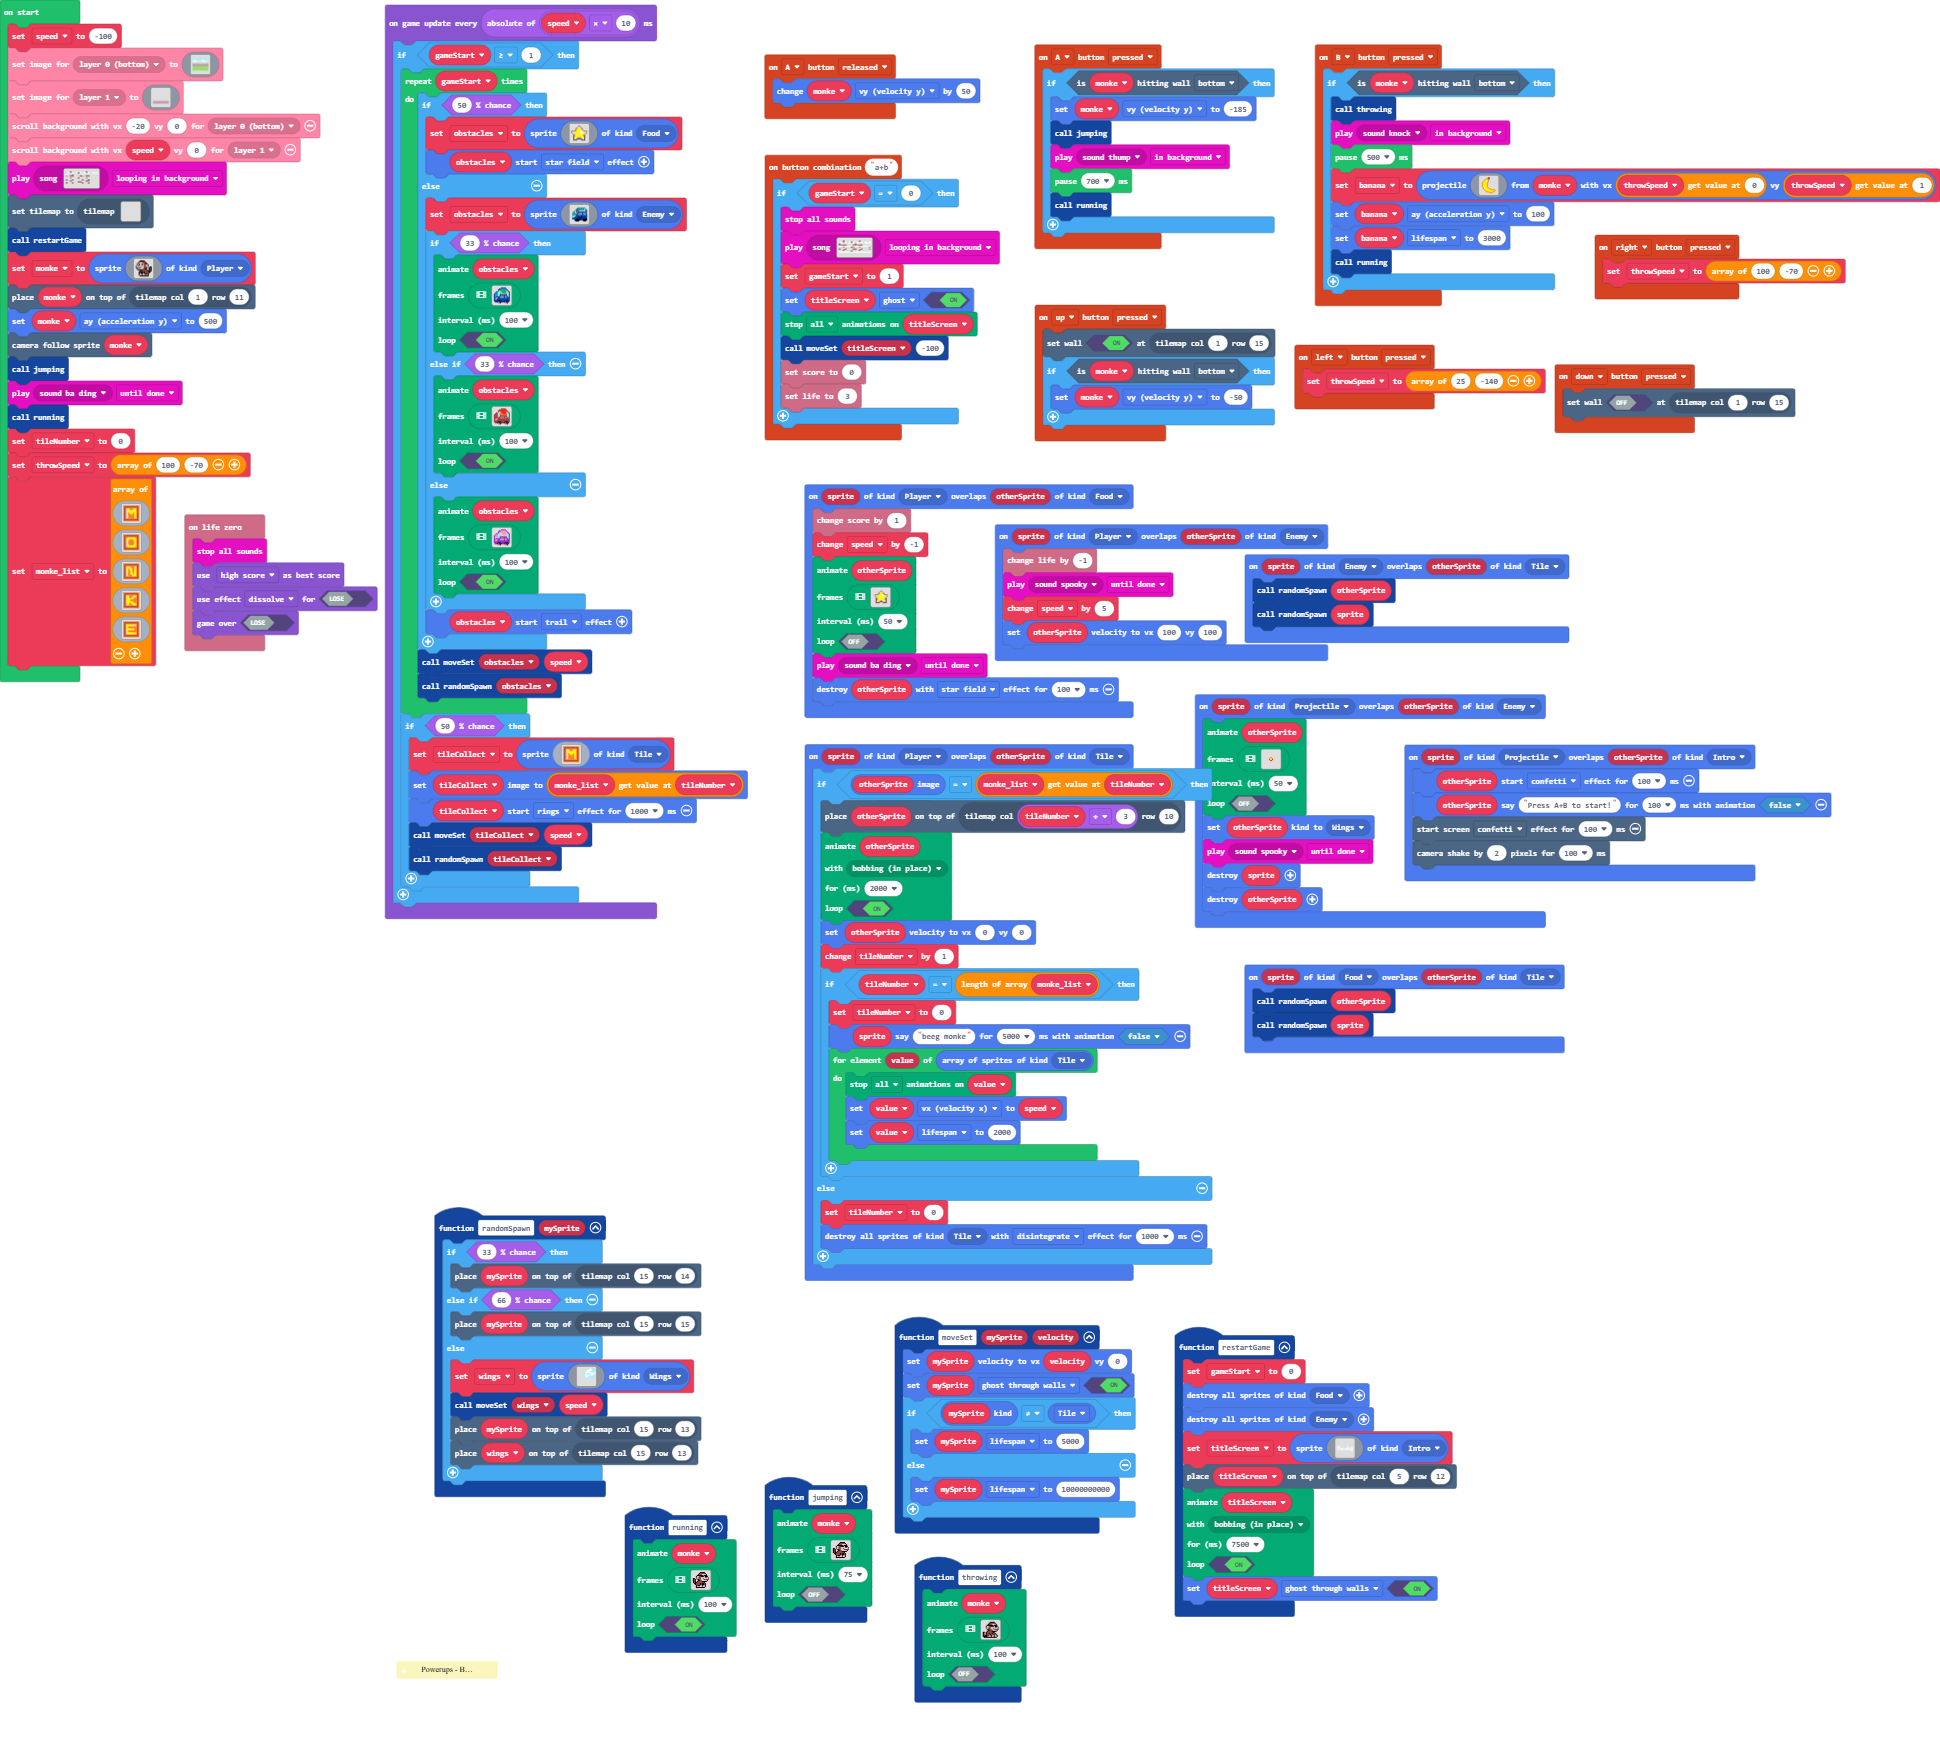
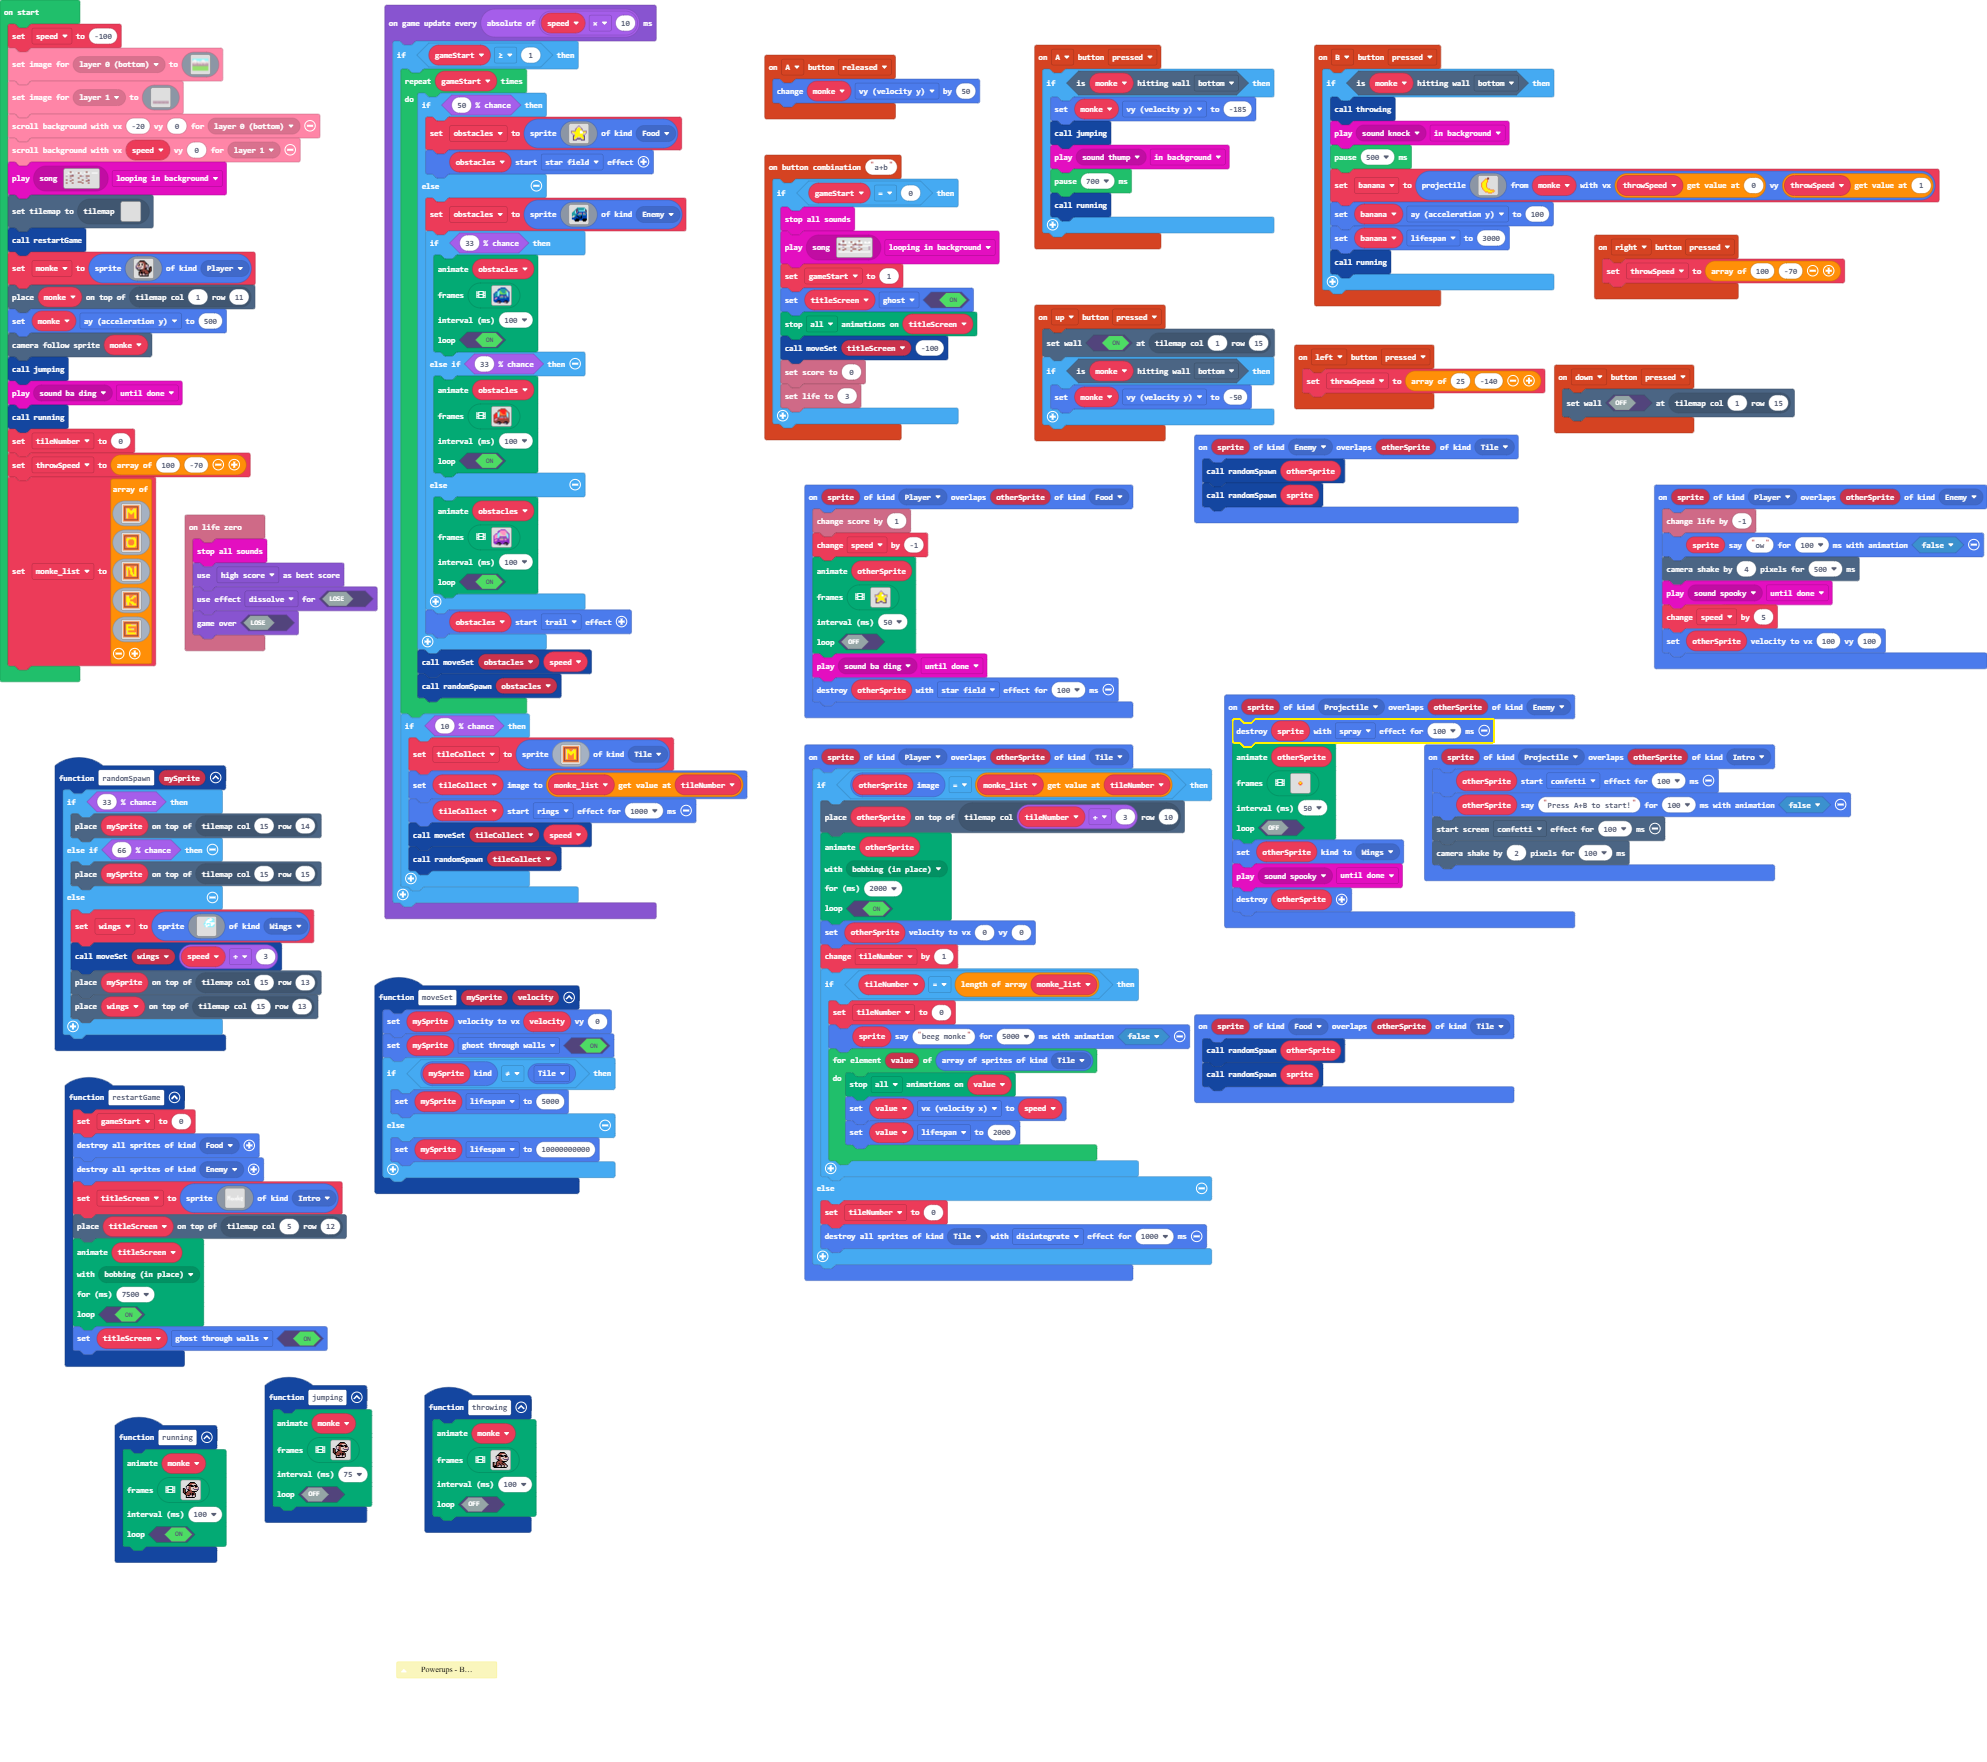
Update main.blocks, main.ts

Changed region(s): [[0.0, 0.0, 1.0, 0.9677]]

diff --git a/main.ts b/main.ts
@@ -685,12 +685,13 @@ function randomSpawn (mySprite: Sprite) {
             . . . . . . . . . . . . . . . . 
             . . . . . . . . . . . . . . . . 
             `, SpriteKind.Wings)
-        moveSet(wings, speed)
+        moveSet(wings, speed + 3)
         tiles.placeOnTile(mySprite, tiles.getTileLocation(15, 13))
         tiles.placeOnTile(wings, tiles.getTileLocation(15, 13))
     }
 }
 sprites.onOverlap(SpriteKind.Projectile, SpriteKind.Enemy, function (sprite, otherSprite) {
+    sprites.destroy(sprite, effects.spray, 100)
     animation.runImageAnimation(
     otherSprite,
     [img`
@@ -767,11 +768,12 @@ sprites.onOverlap(SpriteKind.Projectile, SpriteKind.Enemy, function (sprite, oth
     )
     otherSprite.setKind(SpriteKind.Wings)
     music.play(music.melodyPlayable(music.spooky), music.PlaybackMode.UntilDone)
-    sprites.destroy(sprite)
     sprites.destroy(otherSprite)
 })
 sprites.onOverlap(SpriteKind.Player, SpriteKind.Enemy, function (sprite, otherSprite) {
     info.changeLifeBy(-1)
+    sprite.sayText("ow", 100, false)
+    scene.cameraShake(4, 500)
     music.play(music.melodyPlayable(music.spooky), music.PlaybackMode.UntilDone)
     speed += 5
     otherSprite.setVelocity(100, 100)
@@ -1428,7 +1430,7 @@ game.onUpdateInterval(Math.abs(speed * 10), function () {
             moveSet(obstacles, speed)
             randomSpawn(obstacles)
         }
-        if (Math.percentChance(50)) {
+        if (Math.percentChance(10)) {
             tileCollect = sprites.create(img`
                 4 4 4 4 4 4 4 4 4 4 4 4 4 4 4 4 
                 4 e e e e e e e e e e e e e e 4 
